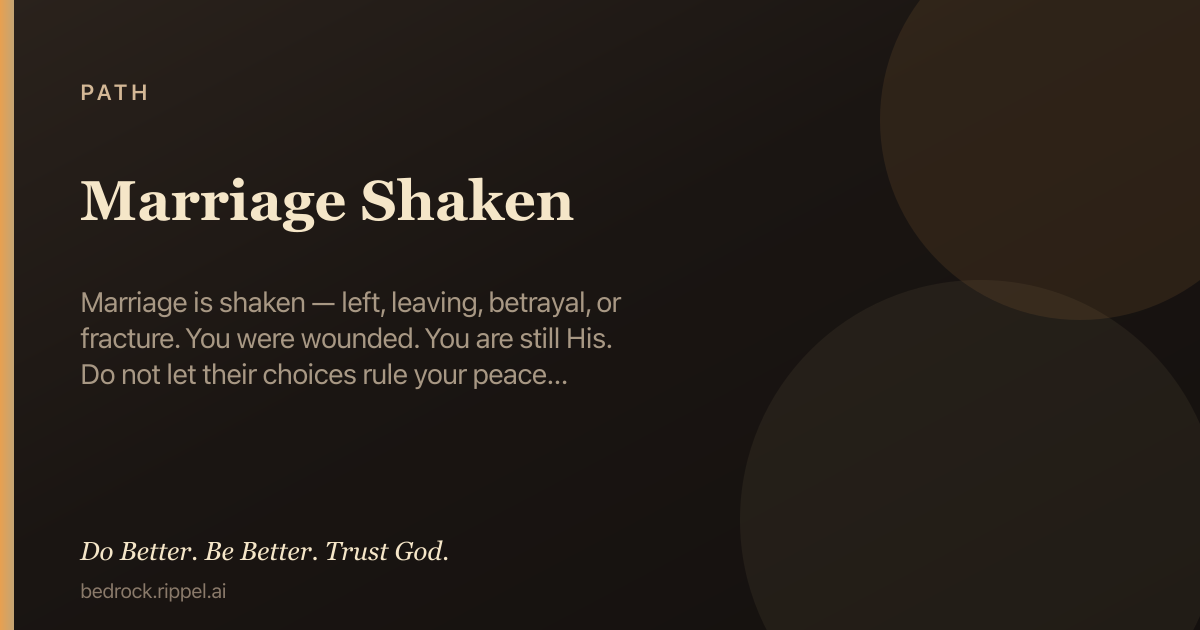
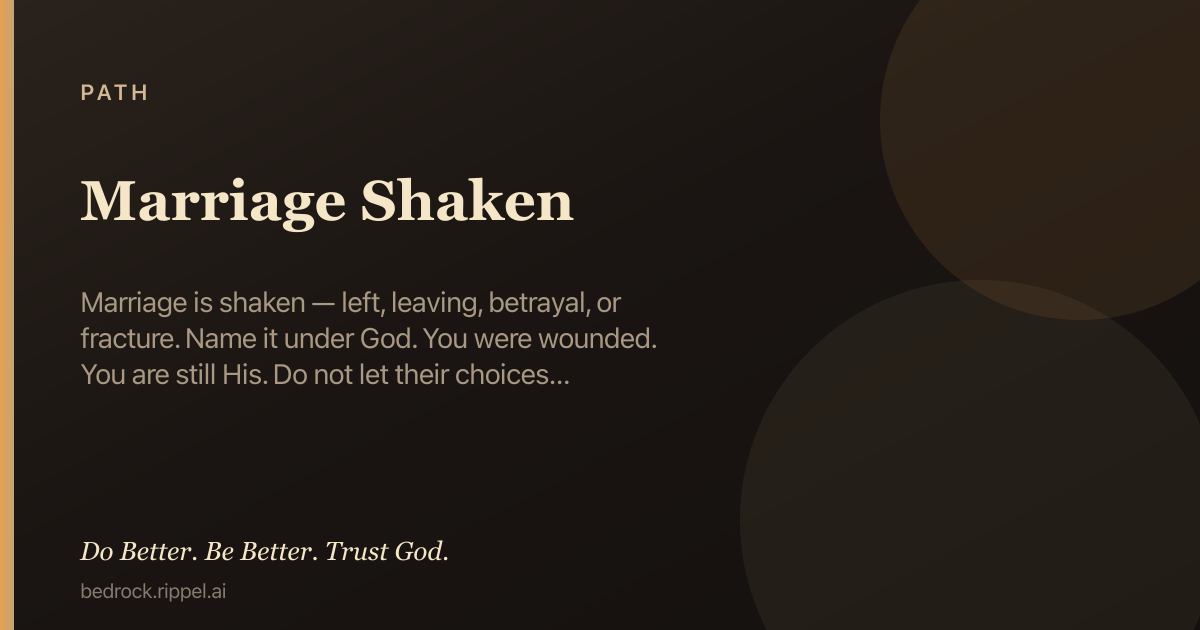
Review Marriage Shaken: door is God on Marriage, not Wounded
Wounded is stage 2 (personal harm). Path: Shaken → Wound → His → Wave
→ Replay → Fear → Grip → Vengeance → Do not repay → Covenant → The Line
→ Forgive → Trust → Presence → Standard → Remain. Marriage key opens
the path; Wounded key opens Deep wound.

Changed region(s): [[0.0617, 0.5127, 0.555, 0.6333]]

diff --git a/public/j/marriage-shaken.html b/public/j/marriage-shaken.html
@@ -4,13 +4,13 @@
   <meta charset="utf-8" />
   <meta name="viewport" content="width=device-width, initial-scale=1" />
   <title>Marriage Shaken — Bedrock Path</title>
-  <meta name="description" content="Marriage is shaken — left, leaving, betrayal, or fracture. You were wounded. You are still His. Do not let their choices rule your peace. Do your part…" />
+  <meta name="description" content="Marriage is shaken — left, leaving, betrayal, or fracture. Name it under God. You were wounded. You are still His. Do not let their choices rule your…" />
   <meta name="robots" content="index, follow" />
   <link rel="canonical" href="https://bedrock.rippel.ai/j/marriage-shaken" />
   <meta property="og:site_name" content="Bedrock" />
   <meta property="og:type" content="article" />
   <meta property="og:title" content="Marriage Shaken — Bedrock Path" />
-  <meta property="og:description" content="Marriage is shaken — left, leaving, betrayal, or fracture. You were wounded. You are still His. Do not let their choices rule your peace. Do your part…" />
+  <meta property="og:description" content="Marriage is shaken — left, leaving, betrayal, or fracture. Name it under God. You were wounded. You are still His. Do not let their choices rule your…" />
   <meta property="og:url" content="https://bedrock.rippel.ai/j/marriage-shaken" />
   <meta property="og:image" content="https://bedrock.rippel.ai/og/j/marriage-shaken.v7.png" />
   <meta property="og:image:secure_url" content="https://bedrock.rippel.ai/og/j/marriage-shaken.v7.png" />
@@ -20,11 +20,11 @@
   <meta property="og:image:alt" content="Marriage Shaken — Bedrock Path" />
   <meta name="twitter:card" content="summary_large_image" />
   <meta name="twitter:title" content="Marriage Shaken — Bedrock Path" />
-  <meta name="twitter:description" content="Marriage is shaken — left, leaving, betrayal, or fracture. You were wounded. You are still His. Do not let their choices rule your peace. Do your part…" />
+  <meta name="twitter:description" content="Marriage is shaken — left, leaving, betrayal, or fracture. Name it under God. You were wounded. You are still His. Do not let their choices rule your…" />
   <meta name="twitter:image" content="https://bedrock.rippel.ai/og/j/marriage-shaken.v7.png" />
   <meta name="twitter:image:alt" content="Marriage Shaken — Bedrock Path" />
   <script type="application/ld+json">
-  {"@context":"https://schema.org","@type":"Article","headline":"Marriage Shaken","description":"Marriage is shaken — left, leaving, betrayal, or fracture. You were wounded. You are still His. Do not let their choices rule your peace. Do your part. Leave the rest to God.","url":"https://bedrock.rippel.ai/j/marriage-shaken","author":{"@type":"Organization","name":"Bedrock","url":"https://bedrock.rippel.ai"},"publisher":{"@type":"Organization","name":"Bedrock","url":"https://bedrock.rippel.ai"},"image":"https://bedrock.rippel.ai/og/j/marriage-shaken.v7.png","inLanguage":"en","isPartOf":{"@type":"WebSite","name":"Bedrock","url":"https://bedrock.rippel.ai"},"articleSection":"Path · Journey"}
+  {"@context":"https://schema.org","@type":"Article","headline":"Marriage Shaken","description":"Marriage is shaken — left, leaving, betrayal, or fracture. Name it under God. You were wounded. You are still His. Do not let their choices rule your peace. Do your part. Leave the rest to God.","url":"https://bedrock.rippel.ai/j/marriage-shaken","author":{"@type":"Organization","name":"Bedrock","url":"https://bedrock.rippel.ai"},"publisher":{"@type":"Organization","name":"Bedrock","url":"https://bedrock.rippel.ai"},"image":"https://bedrock.rippel.ai/og/j/marriage-shaken.v7.png","inLanguage":"en","isPartOf":{"@type":"WebSite","name":"Bedrock","url":"https://bedrock.rippel.ai"},"articleSection":"Path · Journey"}
   </script>
   <script defer src="https://cloud.umami.is/script.js" data-website-id="9b3e462b-60b8-4403-bbbf-15aced7e77dd"></script>
   <script>
@@ -65,30 +65,31 @@
   <main class="wrap">
     <p class="kicker">Path · Journey · Bedrock</p>
     <h1>Marriage Shaken</h1>
-    <p class="summary">Marriage is shaken — left, leaving, betrayal, or fracture. You were wounded. You are still His. Do not let their choices rule your peace. Do your part. Leave the rest to God.</p>
+    <p class="summary">Marriage is shaken — left, leaving, betrayal, or fracture. Name it under God. You were wounded. You are still His. Do not let their choices rule your peace. Do your part. Leave the rest to God.</p>
     <nav class="nav" aria-label="Path actions">
       <a class="primary" href="/?j=marriage-shaken">Open this path</a>
-      <a href="/c/wounded">Door station</a>
+      <a href="/c/god-on-marriage">Door station</a>
       <a href="/">Home</a>
       <a href="https://bedrock.rippel.ai/export/journeys.json">Journeys JSON</a>
     </nav>
     <section class="card" aria-labelledby="stations">
-      <h2 id="stations">15 stations</h2>
-      <ol><li><span class="stage-num">1</span> <a href="/c/wounded">Wound</a> <span class="stage-note">— Name the harm. Do not hide in hate.</span></li>
-<li><span class="stage-num">2</span> <a href="/c/he-is-for-you">You are His</a> <span class="stage-note">— You are still His. Do not let their choices rule your peace.</span></li>
-<li><span class="stage-num">3</span> <a href="/c/rumination">Replay</a> <span class="stage-note">— Obsession is not revelation. Stop feeding the loop.</span></li>
+      <h2 id="stations">16 stations</h2>
+      <ol><li><span class="stage-num">1</span> <a href="/c/god-on-marriage">Shaken</a> <span class="stage-note">— This is marriage before God. Feelings collapsed; His design did not. Name that the covenant is under fire.</span></li>
+<li><span class="stage-num">2</span> <a href="/c/wounded">Wound</a> <span class="stage-note">— Name the harm done to you. Not all of it is your fault. Do not hide in hate.</span></li>
+<li><span class="stage-num">3</span> <a href="/c/he-is-for-you">You are His</a> <span class="stage-note">— You are still His. Do not let their choices rule your peace.</span></li>
 <li><span class="stage-num">4</span> <a href="/c/pain-interrupt">Wave</a> <span class="stage-note">— When memory or pain surges: notice, own your state, return to what is in front of you.</span></li>
-<li><span class="stage-num">5</span> <a href="/c/fear">Fear</a> <span class="stage-note">— Name the fear. Then trust God.</span></li>
-<li><span class="stage-num">6</span> <a href="/c/leave-vengeance-to-the-lord">Vengeance</a> <span class="stage-note">— Flesh wants payback. Leave the scales to God.</span></li>
-<li><span class="stage-num">7</span> <a href="/c/do-not-repay-evil-with-evil">Do not repay</a> <span class="stage-note">— Bless. Do not multiply darkness.</span></li>
-<li><span class="stage-num">8</span> <a href="/c/marriage-covenant">Covenant</a> <span class="stage-note">— Do not invent a new story. Stay true to what God still calls true.</span></li>
-<li><span class="stage-num">9</span> <a href="/c/forgive-as-you-have-been-forgiven">Forgive</a> <span class="stage-note">— Not saying it did not hurt. Release the debt. Grief may stay.</span></li>
-<li><span class="stage-num">10</span> <a href="/c/patience">Patience</a> <span class="stage-note">— One duty you own today.</span></li>
-<li><span class="stage-num">11</span> <a href="/c/the-line">The Line</a> <span class="stage-note">— Daily creed: your state is your own · presence without control · love keeps no record.</span></li>
-<li><span class="stage-num">12</span> <a href="/c/trust-in-the-lord">Trust</a> <span class="stage-note">— You cannot force the outcome.</span></li>
-<li><span class="stage-num">13</span> <a href="/c/presence-without-control">Presence</a> <span class="stage-note">— When near: present, not managing. Relax. Listen. Don’t force present or future.</span></li>
-<li><span class="stage-num">14</span> <a href="/c/kill-the-flesh-walk-in-the-spirit">Standard</a> <span class="stage-note">— Refuse the flesh. Walk in the Spirit. Do your part.</span></li>
-<li><span class="stage-num">15</span> <a href="/c/hope-of-glory">Remain</a> <span class="stage-note">— Stand under trial.</span></li></ol>
+<li><span class="stage-num">5</span> <a href="/c/rumination">Replay</a> <span class="stage-note">— Obsession is not revelation. Stop feeding the loop.</span></li>
+<li><span class="stage-num">6</span> <a href="/c/fear">Fear</a> <span class="stage-note">— Name the fear — loss, alone, future. Then trust God.</span></li>
+<li><span class="stage-num">7</span> <a href="/c/control">Grip</a> <span class="stage-note">— Stop securing their heart, the timeline, the outcome. Do your part. Leave the rest.</span></li>
+<li><span class="stage-num">8</span> <a href="/c/leave-vengeance-to-the-lord">Vengeance</a> <span class="stage-note">— Flesh wants payback. Leave the scales to God.</span></li>
+<li><span class="stage-num">9</span> <a href="/c/do-not-repay-evil-with-evil">Do not repay</a> <span class="stage-note">— Bless. Do not multiply darkness.</span></li>
+<li><span class="stage-num">10</span> <a href="/c/marriage-covenant">Covenant</a> <span class="stage-note">— Do not invent a new story. Stay true to what God still calls true.</span></li>
+<li><span class="stage-num">11</span> <a href="/c/the-line">The Line</a> <span class="stage-note">— How you stand every day: your state is your own · presence without control · love keeps no record.</span></li>
+<li><span class="stage-num">12</span> <a href="/c/forgive-as-you-have-been-forgiven">Forgive</a> <span class="stage-note">— Not saying it did not hurt. Release the debt. Grief may stay.</span></li>
+<li><span class="stage-num">13</span> <a href="/c/trust-in-the-lord">Trust</a> <span class="stage-note">— You cannot force the outcome — them, timeline, or certainty.</span></li>
+<li><span class="stage-num">14</span> <a href="/c/presence-without-control">Presence</a> <span class="stage-note">— When near: present, not managing. Relax. Listen. Don’t force present or future.</span></li>
+<li><span class="stage-num">15</span> <a href="/c/kill-the-flesh-walk-in-the-spirit">Standard</a> <span class="stage-note">— Refuse the flesh. Walk in the Spirit. Do your part.</span></li>
+<li><span class="stage-num">16</span> <a href="/c/hope-of-glory">Remain</a> <span class="stage-note">— Stand under trial.</span></li></ol>
     </section>
     <footer class="page-card-footer">
       <p class="page-card-motto">Do Better. Be Better. Trust God.</p>

diff --git a/public/k/key-marriage.html b/public/k/key-marriage.html
@@ -4,13 +4,13 @@
   <meta charset="utf-8" />
   <meta name="viewport" content="width=device-width, initial-scale=1" />
   <title>Marriage — Bedrock Key</title>
-  <meta name="description" content="Covenant. Storm key in Bedrock. Do Better. Be Better. Trust God." />
+  <meta name="description" content="Shaken. Storm key in Bedrock. Do Better. Be Better. Trust God." />
   <meta name="robots" content="index, follow" />
   <link rel="canonical" href="https://bedrock.rippel.ai/k/key-marriage" />
   <meta property="og:site_name" content="Bedrock" />
   <meta property="og:type" content="article" />
   <meta property="og:title" content="Marriage — Bedrock Key" />
-  <meta property="og:description" content="Covenant. Storm key in Bedrock. Do Better. Be Better. Trust God." />
+  <meta property="og:description" content="Shaken. Storm key in Bedrock. Do Better. Be Better. Trust God." />
   <meta property="og:url" content="https://bedrock.rippel.ai/k/key-marriage" />
   <meta property="og:image" content="https://bedrock.rippel.ai/og/k/key-marriage.v7.png" />
   <meta property="og:image:secure_url" content="https://bedrock.rippel.ai/og/k/key-marriage.v7.png" />
@@ -20,11 +20,11 @@
   <meta property="og:image:alt" content="Marriage — Bedrock Key" />
   <meta name="twitter:card" content="summary_large_image" />
   <meta name="twitter:title" content="Marriage — Bedrock Key" />
-  <meta name="twitter:description" content="Covenant. Storm key in Bedrock. Do Better. Be Better. Trust God." />
+  <meta name="twitter:description" content="Shaken. Storm key in Bedrock. Do Better. Be Better. Trust God." />
   <meta name="twitter:image" content="https://bedrock.rippel.ai/og/k/key-marriage.v7.png" />
   <meta name="twitter:image:alt" content="Marriage — Bedrock Key" />
   <script type="application/ld+json">
-  {"@context":"https://schema.org","@type":"Article","headline":"Marriage","description":"Covenant","url":"https://bedrock.rippel.ai/k/key-marriage","author":{"@type":"Organization","name":"Bedrock","url":"https://bedrock.rippel.ai"},"publisher":{"@type":"Organization","name":"Bedrock","url":"https://bedrock.rippel.ai"},"image":"https://bedrock.rippel.ai/og/k/key-marriage.v7.png","inLanguage":"en","isPartOf":{"@type":"WebSite","name":"Bedrock","url":"https://bedrock.rippel.ai"},"articleSection":"Key"}
+  {"@context":"https://schema.org","@type":"Article","headline":"Marriage","description":"Shaken","url":"https://bedrock.rippel.ai/k/key-marriage","author":{"@type":"Organization","name":"Bedrock","url":"https://bedrock.rippel.ai"},"publisher":{"@type":"Organization","name":"Bedrock","url":"https://bedrock.rippel.ai"},"image":"https://bedrock.rippel.ai/og/k/key-marriage.v7.png","inLanguage":"en","isPartOf":{"@type":"WebSite","name":"Bedrock","url":"https://bedrock.rippel.ai"},"articleSection":"Key"}
   </script>
   <script defer src="https://cloud.umami.is/script.js" data-website-id="9b3e462b-60b8-4403-bbbf-15aced7e77dd"></script>
   <script>
@@ -62,17 +62,17 @@
   <main class="wrap">
     <p class="kicker">Key · Bedrock</p>
     <h1>Marriage</h1>
-    <p class="summary">Covenant</p>
+    <p class="summary">Shaken</p>
     <nav class="nav" aria-label="Key actions">
-      <a class="primary" href="/?c=marriage-covenant&door=key-marriage">Open this key</a>
-      <a href="/c/marriage-covenant">Station</a>
-      
+      <a class="primary" href="/?c=god-on-marriage&door=key-marriage&j=marriage-shaken">Open this key</a>
+      <a href="/c/god-on-marriage">Station</a>
+      <a href="/j/marriage-shaken">Path</a>
       <a href="/">Home</a>
     </nav>
     <section class="card">
       <h2>What this is</h2>
-      <p>A storm door into Bedrock — one first principle under fire.</p>
-      <p>Station: <a href="/c/marriage-covenant">marriage covenant</a></p>
+      <p>A storm door into Bedrock — one first principle under fire, with a multi-station path when life needs a walk.</p>
+      <p>Station: <a href="/c/god-on-marriage">god on marriage</a> · Path: <a href="/j/marriage-shaken">marriage shaken</a></p>
     </section>
     <footer class="page-card-footer">
       <p class="page-card-motto">Do Better. Be Better. Trust God.</p>

diff --git a/src/lib/journeys.test.ts b/src/lib/journeys.test.ts
@@ -81,7 +81,9 @@ describe('core journeys SSOT', () => {
     const death = getJourney('death-of-loved-one')!
     const left = getJourney('marriage-shaken')!
     expect(death.doorChamberId).toBe('loss')
-    expect(left.doorChamberId).toBe('wounded')
+    expect(left.doorChamberId).toBe('god-on-marriage')
+    expect(left.stages[0]?.chamberId).toBe('god-on-marriage')
+    expect(left.stages.some((s) => s.chamberId === 'wounded')).toBe(true)
     expect(death.distinctFrom).toContain('marriage-shaken')
     expect(left.distinctFrom).toContain('death-of-loved-one')
     // Legacy alias still resolves
@@ -109,8 +111,11 @@ describe('core journeys SSOT', () => {
     expect(stageByChamber(j, 'hope-of-glory')?.label).toMatch(/Hope|Pain and glory/i)
   })
 
-  it('journeysForChamber finds loss and wounded doors', () => {
+  it('journeysForChamber finds loss and marriage doors', () => {
     expect(journeysForChamber('loss').some((j) => j.id === 'death-of-loved-one')).toBe(true)
+    expect(journeysForChamber('god-on-marriage').some((j) => j.id === 'marriage-shaken')).toBe(
+      true,
+    )
     expect(journeysForChamber('wounded').some((j) => j.id === 'marriage-shaken')).toBe(true)
   })
 
@@ -135,7 +140,7 @@ describe('core journeys SSOT', () => {
 
   it('formatJourneyContextLine includes next stations and distinctness', () => {
     const j = getJourney('marriage-shaken')!
-    const line = formatJourneyContextLine(j, { chamberId: 'wounded' })
+    const line = formatJourneyContextLine(j, { chamberId: 'god-on-marriage' })
     expect(line).toMatch(/marriage-shaken/)
     expect(line).toMatch(/Next stations/)
     expect(line).toMatch(/death-of-loved-one/)

diff --git a/src/lib/key-entries.test.ts b/src/lib/key-entries.test.ts
@@ -56,7 +56,7 @@ describe('KEY_ENTRIES', () => {
     expect(KEY_ENTRIES.find((k) => k.id === 'key-persecution')?.chamberId).toBe('persecution')
     expect(KEY_ENTRIES.find((k) => k.id === 'key-control')?.chamberId).toBe('control')
     expect(KEY_ENTRIES.find((k) => k.id === 'key-god')?.journeyId).toBeUndefined()
-    expect(KEY_ENTRIES.find((k) => k.id === 'key-marriage')?.journeyId).toBeUndefined()
+    expect(KEY_ENTRIES.find((k) => k.id === 'key-marriage')?.journeyId).toBe('marriage-shaken')
     expect(KEY_ENTRIES.find((k) => k.id === 'key-trust')?.journeyId).toBeUndefined()
   })
 
@@ -102,7 +102,9 @@ describe('KEY_ENTRIES', () => {
 
   it('storm Keys link to core journey ids when set', () => {
     expect(KEY_ENTRIES.find((k) => k.id === 'key-loss')?.journeyId).toBe('death-of-loved-one')
-    expect(KEY_ENTRIES.find((k) => k.id === 'key-wounded')?.journeyId).toBe('marriage-shaken')
+    expect(KEY_ENTRIES.find((k) => k.id === 'key-marriage')?.journeyId).toBe('marriage-shaken')
+    expect(KEY_ENTRIES.find((k) => k.id === 'key-marriage')?.chamberId).toBe('god-on-marriage')
+    expect(KEY_ENTRIES.find((k) => k.id === 'key-wounded')?.journeyId).toBe('deep-wound')
     expect(KEY_ENTRIES.find((k) => k.id === 'key-addiction')?.journeyId).toBe('addiction')
     expect(KEY_ENTRIES.find((k) => k.id === 'key-wait')?.journeyId).toBe('forced-waiting')
   })

diff --git a/src/lib/content-integrity.test.ts b/src/lib/content-integrity.test.ts
@@ -449,9 +449,27 @@ describe('bedrock content integrity', () => {
     }
     const spouse = journeysDoc.journeys.find((j) => j.id === 'marriage-shaken')
     expect(spouse?.title).toBe('Marriage Shaken')
+    expect(spouse?.doorChamberId).toBe('god-on-marriage')
+    expect(spouse?.stages[0]?.chamberId).toBe('god-on-marriage')
     expect(spouse?.summary).toMatch(/do not let their choices rule your peace/i)
-    expect(spouse?.stages.some((s) => s.chamberId === 'the-line')).toBe(true)
-    expect(spouse?.stages.some((s) => s.chamberId === 'pain-interrupt')).toBe(true)
+    expect(spouse?.stages.map((s) => s.chamberId)).toEqual([
+      'god-on-marriage',
+      'wounded',
+      'he-is-for-you',
+      'pain-interrupt',
+      'rumination',
+      'fear',
+      'control',
+      'leave-vengeance-to-the-lord',
+      'do-not-repay-evil-with-evil',
+      'marriage-covenant',
+      'the-line',
+      'forgive-as-you-have-been-forgiven',
+      'trust-in-the-lord',
+      'presence-without-control',
+      'kill-the-flesh-walk-in-the-spirit',
+      'hope-of-glory',
+    ])
   })
 
   it('Truth stays verse-shaped — application lives in Under fire', () => {

diff --git a/src/lib/path-routing.test.ts b/src/lib/path-routing.test.ts
@@ -18,8 +18,8 @@ describe('path-routing', () => {
 
   it('builds journey app hrefs', () => {
     expect(journeyAppHref('marriage-shaken')).toBe('/?j=marriage-shaken')
-    expect(journeyAppHref('marriage-shaken', 'wounded')).toBe(
-      '/?j=marriage-shaken&c=wounded',
+    expect(journeyAppHref('marriage-shaken', 'god-on-marriage')).toBe(
+      '/?j=marriage-shaken&c=god-on-marriage',
     )
     // Legacy alias resolves to preferred id
     expect(journeyAppHref('spouse-left')).toBe('/?j=marriage-shaken')
@@ -28,8 +28,8 @@ describe('path-routing', () => {
   it('buildAppHref orders journey then chamber and home', () => {
     expect(buildAppHref({})).toBe('/')
     expect(buildAppHref({ chamberId: 'loss' })).toBe('/?c=loss')
-    expect(buildAppHref({ journeyId: 'marriage-shaken', chamberId: 'wounded' })).toBe(
-      '/?j=marriage-shaken&c=wounded',
+    expect(buildAppHref({ journeyId: 'marriage-shaken', chamberId: 'god-on-marriage' })).toBe(
+      '/?j=marriage-shaken&c=god-on-marriage',
     )
   })
 

diff --git a/public/k/key-wounded.html b/public/k/key-wounded.html
@@ -64,15 +64,15 @@
     <h1>Wounded</h1>
     <p class="summary">I was hurt</p>
     <nav class="nav" aria-label="Key actions">
-      <a class="primary" href="/?c=wounded&door=key-wounded&j=marriage-shaken">Open this key</a>
+      <a class="primary" href="/?c=wounded&door=key-wounded">Open this key</a>
       <a href="/c/wounded">Station</a>
-      <a href="/j/marriage-shaken">Path</a>
+      
       <a href="/">Home</a>
     </nav>
     <section class="card">
       <h2>What this is</h2>
-      <p>A storm door into Bedrock — one first principle under fire, with a multi-station path when life needs a walk.</p>
-      <p>Station: <a href="/c/wounded">wounded</a> · Path: <a href="/j/marriage-shaken">marriage shaken</a></p>
+      <p>A storm door into Bedrock — one first principle under fire.</p>
+      <p>Station: <a href="/c/wounded">wounded</a></p>
     </section>
     <footer class="page-card-footer">
       <p class="page-card-motto">Do Better. Be Better. Trust God.</p>

diff --git a/src/lib/key-entries.ts b/src/lib/key-entries.ts
@@ -37,9 +37,9 @@ export const KEY_ENTRIES: KeyEntry[] = [
   {
     id: 'key-marriage',
     label: 'Marriage',
-    hint: 'Covenant',
-    chamberId: 'marriage-covenant',
-    // Station only — marriage-shaken door is Wounded
+    hint: 'Shaken',
+    chamberId: 'god-on-marriage',
+    journeyId: 'marriage-shaken',
   },
   {
     id: 'key-wait',
@@ -67,7 +67,8 @@ export const KEY_ENTRIES: KeyEntry[] = [
     label: 'Wounded',
     hint: 'I was hurt',
     chamberId: 'wounded',
-    journeyId: 'marriage-shaken',
+    // Generic harm path — marriage crisis opens via Marriage key / marriage-shaken
+    journeyId: 'deep-wound',
   },
   {
     id: 'key-obsession',

diff --git a/public/j/README.md b/public/j/README.md
@@ -3,7 +3,7 @@
 Canonical multi-station paths for crawlers and social share.
 
 - [Death of a loved one](https://bedrock.rippel.ai/j/death-of-loved-one) — Mourning is not unbelief. Hope does not erase tears. Empty hands. Remain today.
-- [Marriage Shaken](https://bedrock.rippel.ai/j/marriage-shaken) — Marriage is shaken — left, leaving, betrayal, or fracture. You were wounded. You are still His. Do not let their choices rule your peace. Do your part. Leave the rest to God.
+- [Marriage Shaken](https://bedrock.rippel.ai/j/marriage-shaken) — Marriage is shaken — left, leaving, betrayal, or fracture. Name it under God. You were wounded. You are still His. Do not let their choices rule your peace. Do your part. Leave the rest to God.
 - [Deep wound](https://bedrock.rippel.ai/j/deep-wound) — You were harmed. God sees. Do not repay evil; forgive over time; keep wise boundaries.
 - [Abandonment fear](https://bedrock.rippel.ai/j/abandonment-fear) — Perfect love casts out fear. You cry Abba — not slave to terror. Trust when the face is gone.
 - [Addiction](https://bedrock.rippel.ai/j/addiction) — If it masters you, it is not free. Name the master; walk by the Spirit one hour; get real help.

diff --git a/public/k/README.md b/public/k/README.md
@@ -3,7 +3,7 @@
 Storm triage doors for crawlers and social share.
 
 - [God](https://bedrock.rippel.ai/k/key-god) — First
-- [Marriage](https://bedrock.rippel.ai/k/key-marriage) — Covenant
+- [Marriage](https://bedrock.rippel.ai/k/key-marriage) — Shaken
 - [Out of control](https://bedrock.rippel.ai/k/key-wait) — Can't force it
 - [Trust](https://bedrock.rippel.ai/k/key-trust) — Release grip
 - [Grief](https://bedrock.rippel.ai/k/key-loss) — Loss
